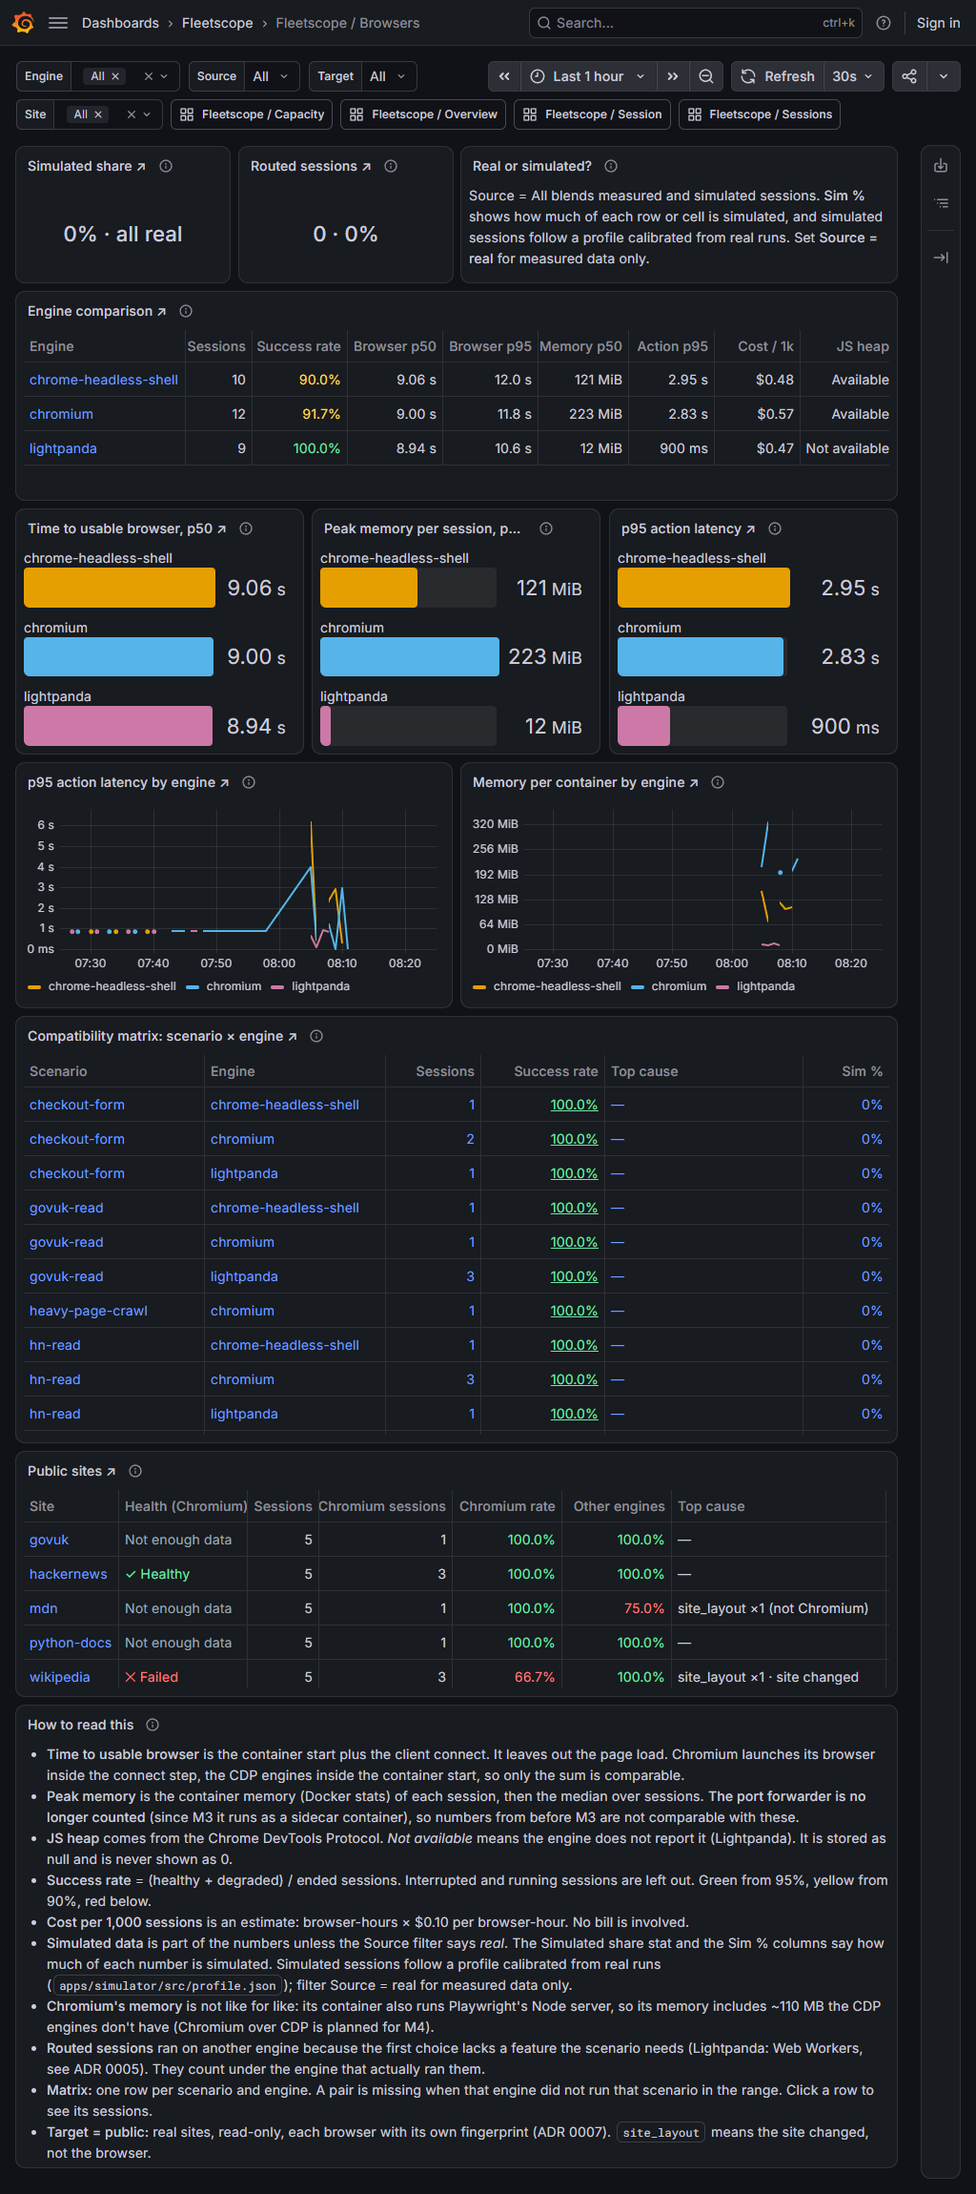
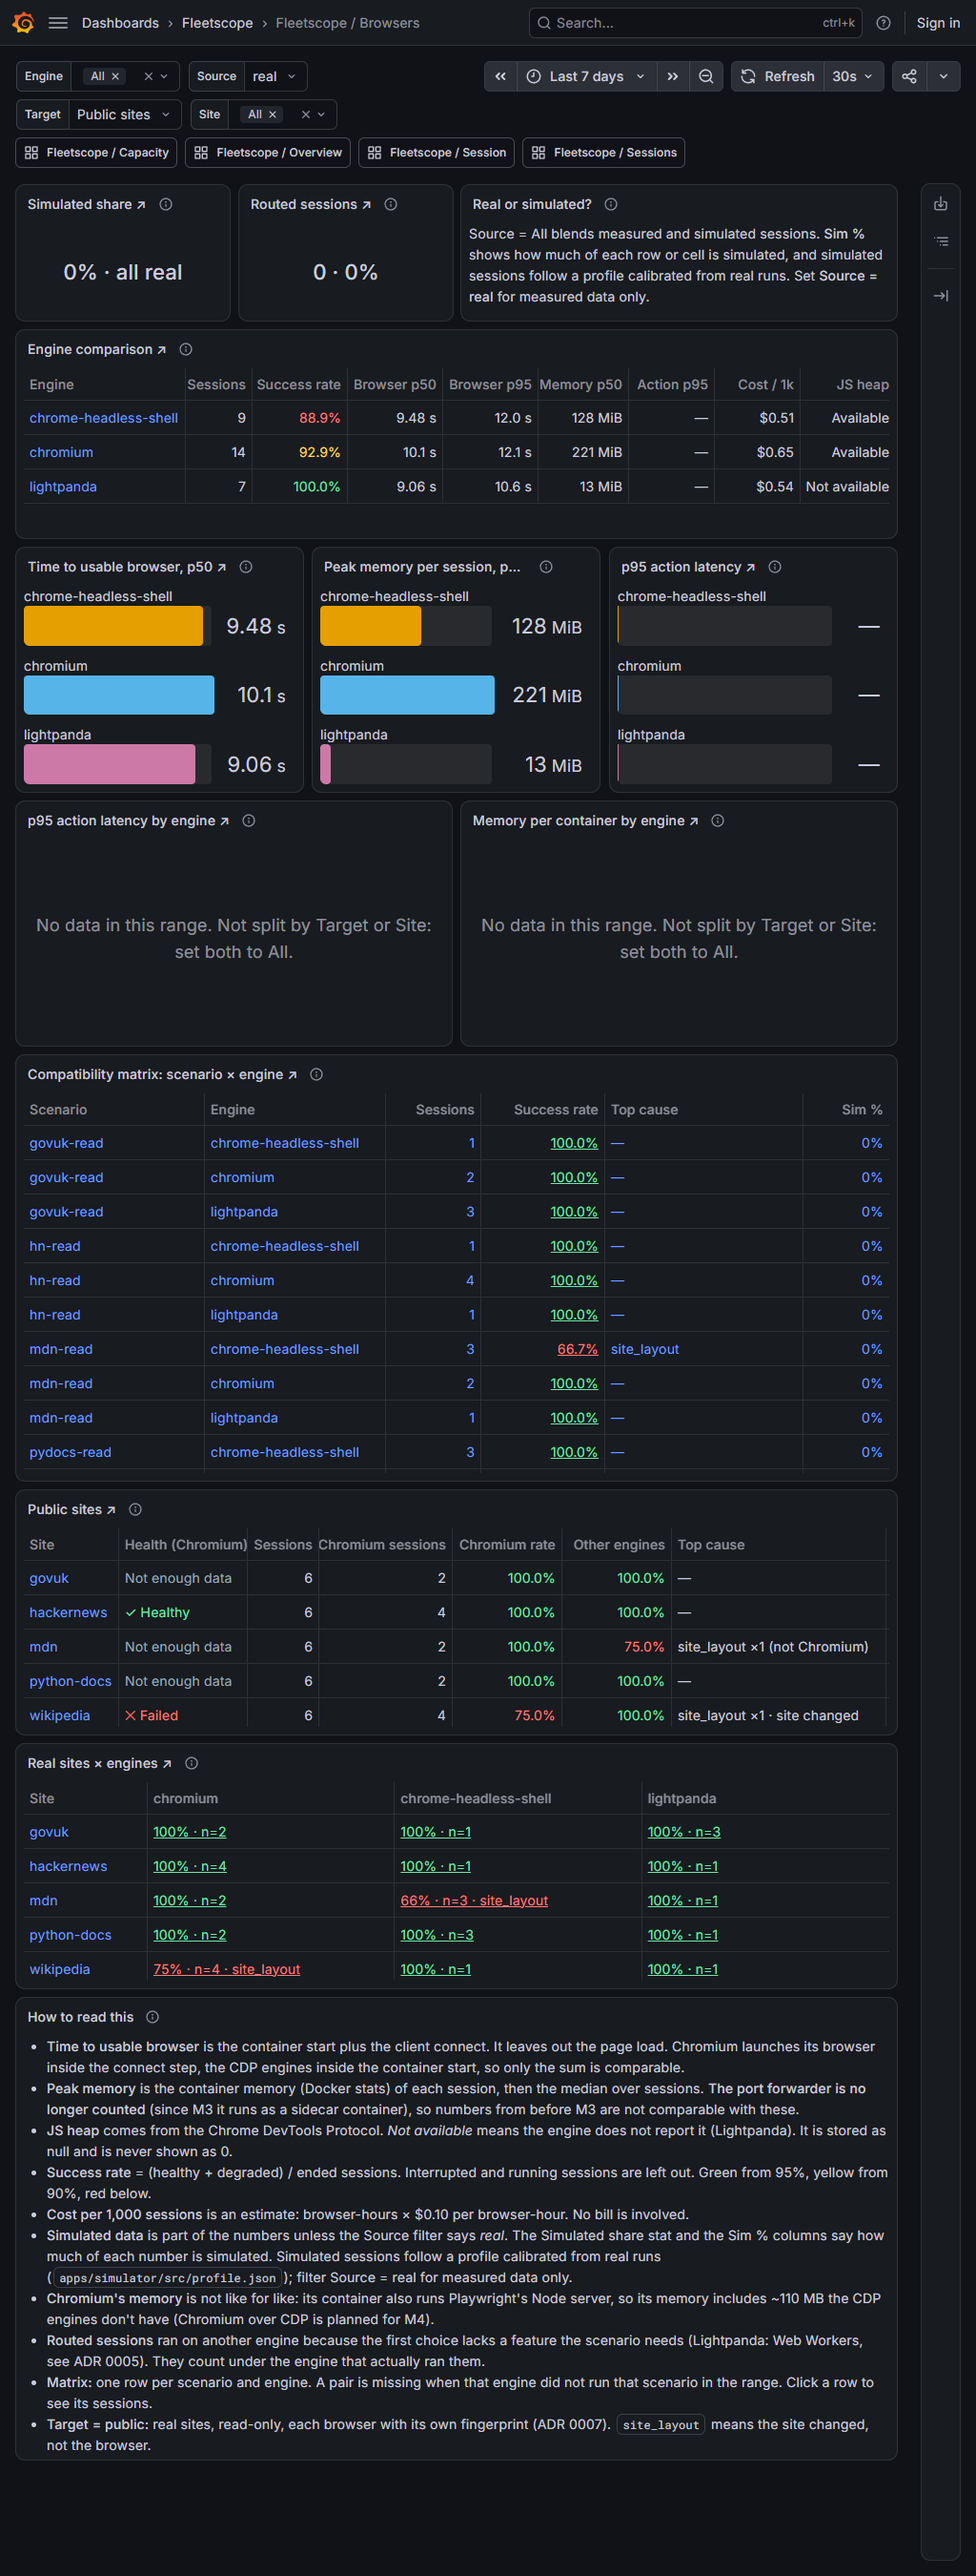
feat(dashboards): Real sites x engines grid on Browsers
A site by engine table under Public sites: success rate, session count and top cause per cell,
coloured with the compatibility-matrix thresholds, each cell linking to Sessions for that site and engine.

diff --git a/design/DESIGN.md b/design/DESIGN.md
@@ -242,6 +242,7 @@ Range `now-1h`, refresh `30s`, variables `engine`, `source`, `target` and `site`
 
 - **Compatibility matrix:** one row per scenario and engine, so the public scenarios (`wiki-read`, `mdn-read`, `govuk-read`, `hn-read`, `pydocs-read`) appear as rows once they have run in the range; Target separates them from the demo scenarios.
 - **Public sites ↗** (Table, 24×7, under the matrix): one row per public site (always `target = public`; Target = Demo site gives "No public-site sessions ended in this range"), from the sessions that ended in the range (interrupted left out). Columns: Site (link to Sessions with `var-target=public&var-site=<site>`, and without the `target` and `site` queryparams it overrides) · Health (Chromium) (the Chromium success rate through the thresholds, with the Status mapping: ✓ Healthy, ▲ Degraded, ✕ Failed; ⊘ Blocked when most Chromium sessions were `blocked` or had the cause `http_403`, `http_429` or `captcha`; `Not enough data` in `#9AA9BB` below 3 Chromium sessions in range) · Sessions (all engines) · Chromium sessions · Chromium rate · Other engines (success rate of the other two engines; `—` when none ran) · Top cause (all engines, e.g. `unsupported_api ×2`; `site_layout` reads `site_layout ×2 · site changed` only when Chromium itself has it, otherwise `site_layout ×2 (not Chromium)`, because then it is likely an engine gap) · Last visit. Chromium is the site-health signal: a site that fails for Chromium has changed or blocks us, while a failure only on the CDP engines points at the engine.
+- **Real sites × engines ↗** (Table, 24×7, directly under Public sites): the site × engine grid. Rows are the public sites, columns are `chromium`, `chrome-headless-shell` and `lightpanda`, from the sessions that ended in the range (interrupted left out; README snippet `site-engine-matrix`, always `target = public`). Each cell is one text, `92% · n=12 · site_layout`: the success rate rounded down (so 94.9% never reads as a green 95%), the session count, and the top failure cause when there is one (no cause: `100% · n=12`). The text is coloured with the compatibility-matrix thresholds (green from 95, yellow from 90, red below; by regex mapping on the text, because one cell can't carry two values). A pair with no session is `—` in `#9AA9BB`, never 0%. The pivot is the `groupingToMatrix` transformation. Each cell links to Sessions with `var-target=public&var-site=<site>&var-engine=<engine>`, the time range and Source; the Target, Site and Engine queryparams are left out so they don't override the link. The Site cell links to that site on all engines. Fits 1440 and 1024 with the menu docked. A site (row) or engine (column) with no session in the range is absent, not a row of dashes.
 - **How to read this** gets the line: "Target = public: real sites, read-only, each browser with its own fingerprint (ADR 0007). `site_layout` means the site changed, not the browser."
 
 **Rollup panels and Target / Site.** `fleet_minute` has no `target` or `site` column. The panels that read it (p95 action latency, Actions per minute, Memory per container, and the p95 and CPU columns of By engine and Engine comparison) therefore show data only when Target = All and Site = All, through `$__conditionalAll(1 = 0, $target)` and `$__conditionalAll(1 = 0, $site)`; with a filter they show `—` or their No value text, and their descriptions say why. They never show unfiltered numbers under a filter.
